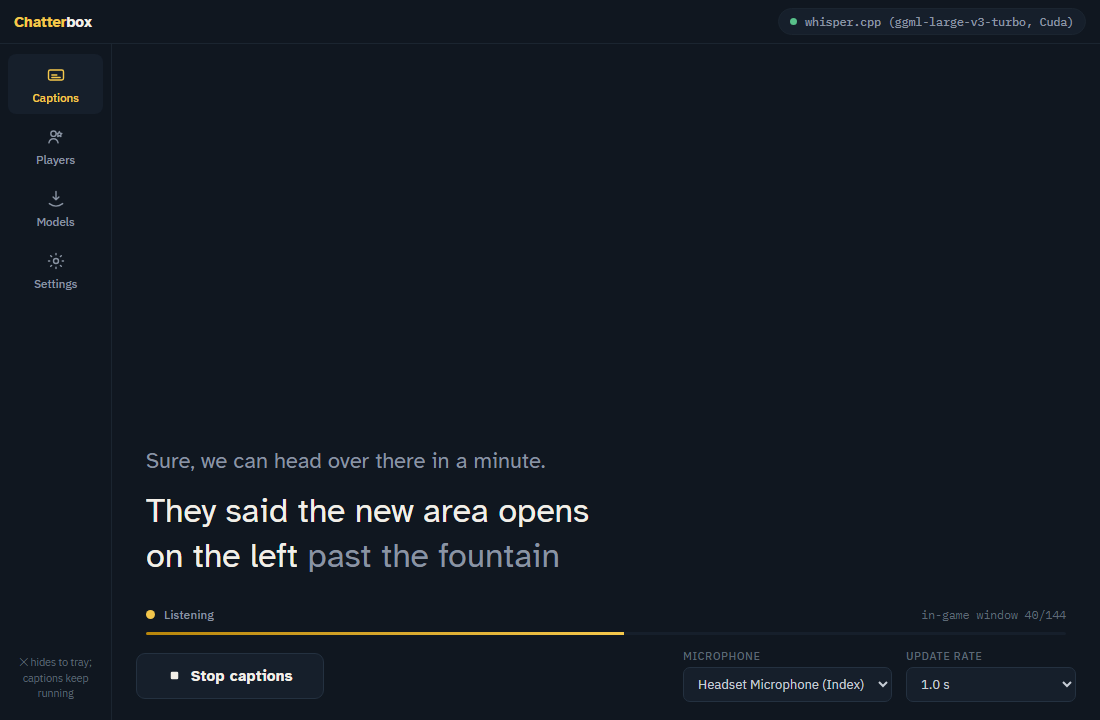
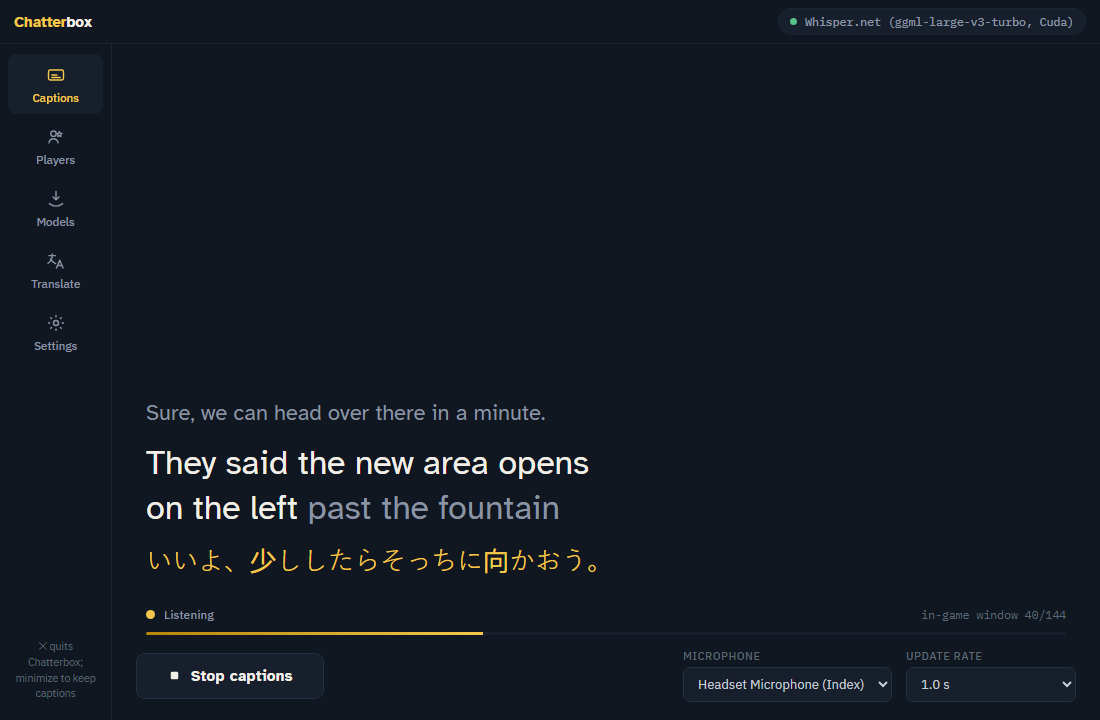
Screenshots for 1.7.1: Translate tab in the rail, translated caption line
The README screenshot now shows the current rail (with Translate), the
Whisper.net status pill and a translated sentence under the captions; a
second screenshot shows the Translate tab. Both are rendered from the
page's demo mode, which now stages the translation state too.

diff --git a/src/Chatterbox/wwwroot/app.js b/src/Chatterbox/wwwroot/app.js
@@ -608,7 +608,9 @@ if (DEMO) {
     intervalMs: 1000, typingIndicator: true, autoStartEnabled: true,
     autoStartFriends: [{ id: 'usr_2fa4aaaa-1111-2222-3333-4444555591c3', name: 'Nova_Signs' }, { id: '', name: 'Moth_man42' }],
     whisperAvailable: true, whisperModelName: 'ggml-large-v3-turbo.bin', whisperModels: ['ggml-large-v3-turbo.bin'],
-    whisperModelSetting: '', vadAvailable: true, parakeetAvailable: true, modelDir: '' } }));
+    whisperModelSetting: '', vadAvailable: true, parakeetAvailable: true, modelDir: '',
+    translateEnabled: true, translateTarget: 'ja', translateShowOriginal: false, translateReady: true, translateGpu: true,
+    translateLanguages: [{ code: 'ja', name: 'Japanese' }, { code: 'ko', name: 'Korean' }, { code: 'es', name: 'Spanish' }, { code: 'de', name: 'German' }] } }));
   onMessage(JSON.stringify({ type: 'sttPlayers', payload: { game: true, log: 'writing', world: 'wrld_demo', worldName: 'The Black Cat', players: [
     { id: 'usr_c48faaaa-0000-0000-0000-00000000a0c8', name: 'PixelFerret' },
     { id: 'usr_2fa4aaaa-1111-2222-3333-4444555591c3', name: 'Nova_Signs' },
@@ -619,8 +621,11 @@ if (DEMO) {
     { id: 'large-v3-turbo-q5', displayName: 'Whisper large-v3-turbo (q5)', sizeBytes: 574e6, license: 'MIT', attribution: 'OpenAI / whisper.cpp', installed: false, active: false, isVad: false },
     { id: 'tiny.en-q5', displayName: 'Whisper tiny.en (q5)', sizeBytes: 32e6, license: 'MIT', attribution: 'OpenAI / whisper.cpp', installed: false, active: false, isVad: false },
     { id: 'vad', displayName: 'Silero VAD v6.2.0', sizeBytes: 885098, license: 'MIT', attribution: 'snakers4 / ggml-org', installed: true, active: false, isVad: true },
-    { id: 'cuda-gpu-pack', displayName: 'GPU acceleration for Whisper (CUDA)', sizeBytes: 142586522, license: 'MIT', attribution: 'whisper.cpp CUDA build, packaged by Whisper.net', installed: false, active: false, isVad: false }] } }));
-  onMessage(JSON.stringify({ type: 'sttState', payload: { running: true, engineName: 'whisper.cpp (ggml-large-v3-turbo, Cuda)' } }));
+    { id: 'hy-mt2-1.8b', displayName: 'Hy-MT2 1.8B translation model (Q4)', sizeBytes: 1133080448, license: 'Apache-2.0', attribution: 'Tencent Hunyuan Hy-MT2 1.8B (Apache-2.0), GGUF by Tencent', installed: true, active: false, isVad: false, kind: 'translation' },
+    { id: 'cuda-gpu-pack', displayName: 'GPU acceleration for Whisper (CUDA)', sizeBytes: 142586522, license: 'MIT', attribution: 'whisper.cpp CUDA build, packaged by Whisper.net', installed: false, active: false, isVad: false },
+    { id: 'translate-engine', displayName: 'Translation engine (llama.cpp, CPU)', sizeBytes: 36337071, license: 'MIT', attribution: 'llama.cpp (MIT, ggml-org), packaged by LLamaSharp (MIT)', installed: true, active: false, isVad: false, kind: 'pack' },
+    { id: 'translate-gpu-pack', displayName: 'GPU acceleration for translation (Vulkan)', sizeBytes: 20194168, license: 'MIT', attribution: 'llama.cpp Vulkan build (MIT, ggml-org), packaged by LLamaSharp (MIT)', installed: true, active: false, isVad: false, kind: 'pack' }] } }));
+  onMessage(JSON.stringify({ type: 'sttState', payload: { running: true, engineName: 'Whisper.net (ggml-large-v3-turbo, Cuda)' } }));
   onMessage(JSON.stringify({ type: 'sttPartial', payload: { committed: 'They said the new area opens on the left', pending: 'past the fountain' } }));
   onMessage(JSON.stringify({ type: 'sttSpeech', payload: { active: true } }));
   onMessage(JSON.stringify({ type: 'sttMeter', payload: { level: 0.52 } }));
@@ -628,11 +633,14 @@ if (DEMO) {
   onMessage(JSON.stringify({ type: 'sttModelProgress', payload: { id: 'large-v3-turbo-q5', received: 368e6, total: 574e6 } }));
   $('capOlder').textContent = 'Sure, we can head over there in a minute.';
   $('capOlder').hidden = false;
+  onMessage(JSON.stringify({ type: 'sttTranslated', payload: { original: 'Sure, we can head over there in a minute.', translated: 'いいよ、少ししたらそっちに向かおう。' } }));
   onMessage(JSON.stringify({ type: 'sttUpdate', payload: { state: 'available', current: '1.6.0', configured: true, checkAtStartup: true,
     latest: '1.6.1', title: 'Chatterbox 1.6.1 for Linux', pageUrl: '', size: 39.7e6, received: 0, total: 0,
     notes: 'Live local speech-to-text captions for the VRChat chatbox. Linux x64, one self-contained file.\nSHA-256: 0000000000000000000000000000000000000000000000000000000000000000' } }));
-  onMessage(JSON.stringify({ type: 'sttDocs', payload: { version: '1.2.0',
+  onMessage(JSON.stringify({ type: 'sttDocs', payload: { version: '1.7.1',
     readme: '# Chatterbox\n\nLive captions for VRChat. (Demo preview text.)',
     license: 'MIT License. (Demo preview text.)',
     notice: 'Third-party notices. (Demo preview text.)' } }));
+  const demoView = new URLSearchParams(location.search).get('view');
+  if (demoView) showView(demoView);
 }

diff --git a/README.md b/README.md
@@ -180,6 +180,8 @@ simply run untranslated and a toast says why. The recognition engine and
 Whisper model selectors live on the Models screen under **In use** (moved
 there from Settings).
 
+![The Translate tab](docs/screenshot-translate.png)
+
 The packs install under `~/.local/share/Chatterbox/runtimes/linux-x64/native/`
 (one folder per instruction-set variant; the loader picks the best one for
 your processor) and are hash-verified like everything else; `last_boot.log`
